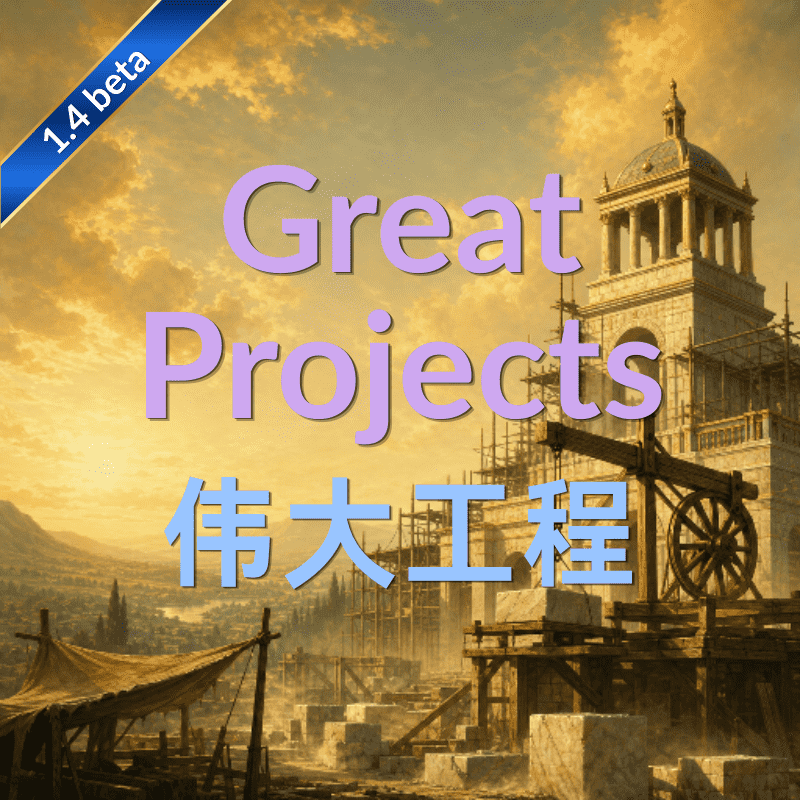
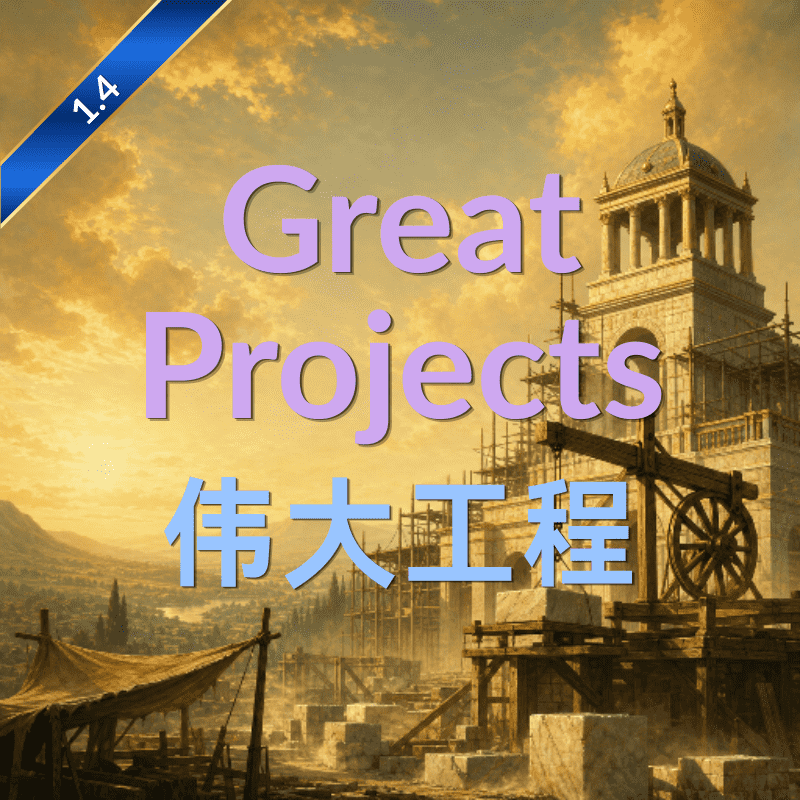
update assets

diff --git a/docs/marketing/assets/gen_hero_banner.py b/docs/marketing/assets/gen_hero_banner.py
@@ -165,7 +165,7 @@ def build_hero(text: str, is_zh: bool, out_name: str) -> None:
     size = 150 if is_zh else 128
     font = ImageFont.truetype(str(font_path), size)
     tracking = 0 if is_zh else 8
-    subtitle = "261014 Update"
+    subtitle = "261103 Update"
     subtitle_font = ImageFont.truetype(str(FONT_EN), 44)
 
     _, text_h = title_dims(draw, text, font, is_zh, tracking)
